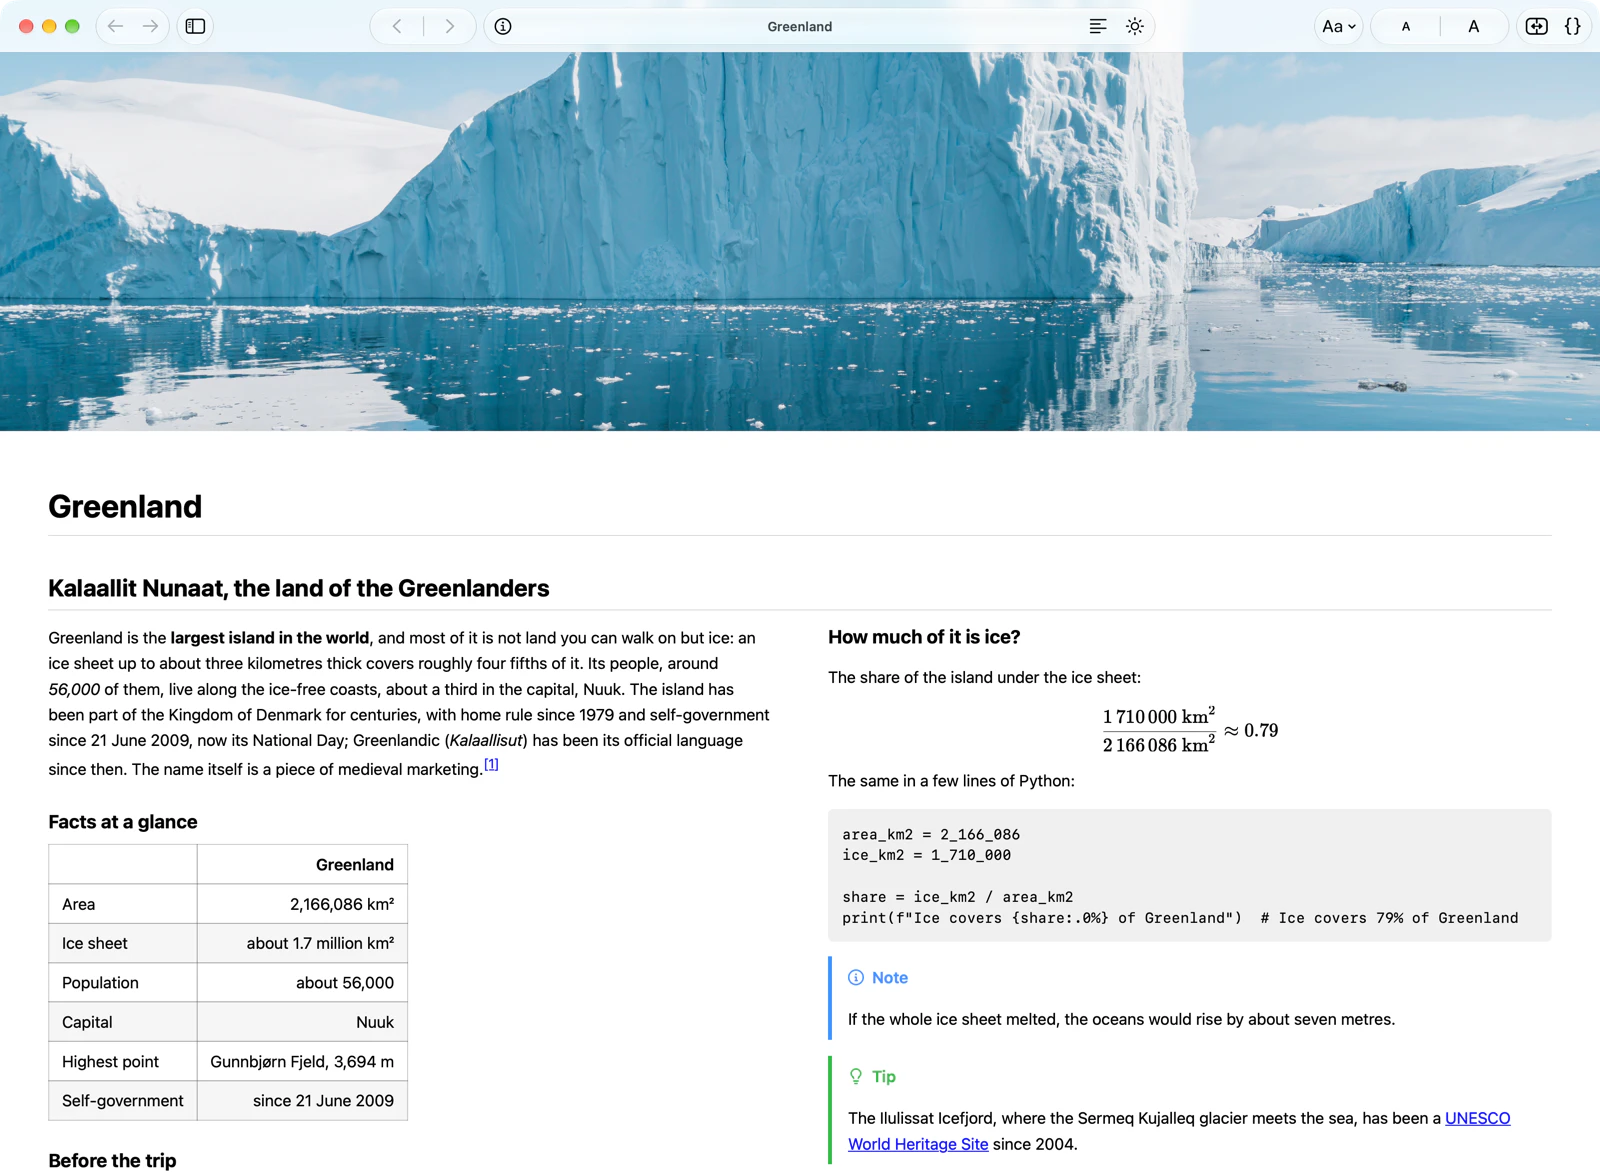
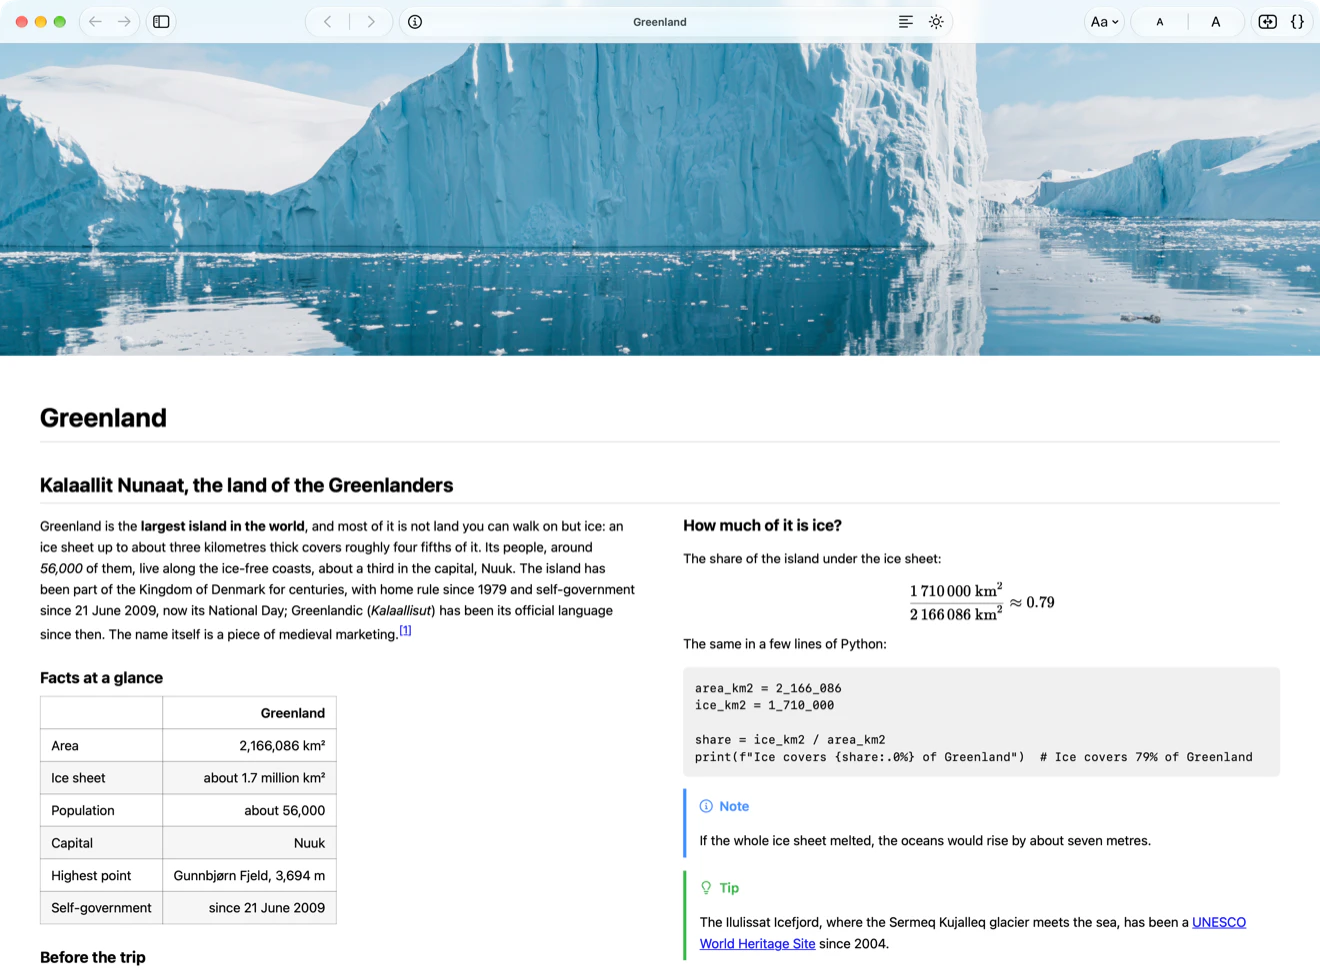
perf(aomidori): schermate a 1320 x 970, il triplo della misura in pagina
Il limite della regola sulle immagini per il Web (larghezza al massimo tripla di quella in cui
la pagina mostra l'immagine, per gli schermi dei telefoni a densità 3): ricavate dai PNG
originali, circa 150 KB l'una. VERSIONE_SCHERMATE sale a 9.

Agent: Claude Code

diff --git a/Aomidori/index.html b/Aomidori/index.html
@@ -20,9 +20,9 @@
   JavaScript; the script switches them to Italian for an Italian browser, title included.
   The screenshot on the right (below, on narrow screens) is one file per theme, the same in both
   languages (the owner's choice Orizzonte, 2026-10-27): assets/screenshot-light.webp and
-  screenshot-dark.webp, a 1600 x 1176 pt window made by the owner, served at 1600 x 1176 px in
-  lossy WebP at quality 90 (his rule of 2026-10-27: web images light, at most 500 KB; the window
-  shows a photograph, and the picture is never wider than 440 px on the page). Until a file exists
+  screenshot-dark.webp, a 1600 x 1176 pt window made by the owner, served at 1320 x 970 px in
+  lossy WebP at quality 90 (his rule of 2026-10-27, Roccobot.md, web images light: at most three
+  times the 440 px the page gives it, and the window shows a photograph). Until a file exists
   its slot stays hidden and the
   page keeps one column: adding the four files is the whole change.
   ⚠ The icon is Graphe's artwork, copied unaltered from Resources/Icon/ (aomidori-v2.svg and
@@ -258,7 +258,7 @@
       </div>
     </div>
   </div>
-  <figure class="schermata" id="schermata" hidden><img id="schermata-img" width="1600" height="1176" alt=""></figure>
+  <figure class="schermata" id="schermata" hidden><img id="schermata-img" width="1320" height="970" alt=""></figure>
   </div>
 
   <div class="fatti">
@@ -474,7 +474,7 @@
   // The screenshots keep their names when they are taken again, so a browser could show an old
   // one from its cache next to a new one: their version goes in the address, and goes up by one
   // whenever they are replaced.
-  var VERSIONE_SCHERMATE = 8;
+  var VERSIONE_SCHERMATE = 9;
   var schermataMancante = {};
   function mostraSchermata(T) {
     var figura = el('schermata');
